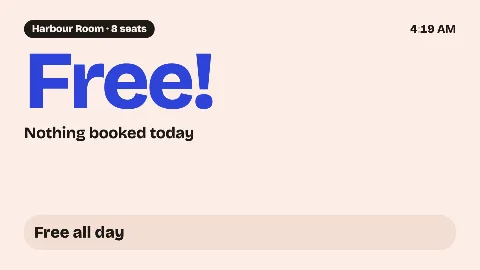
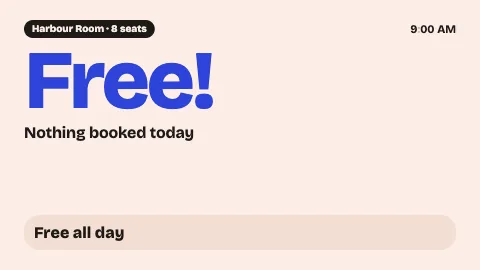
Template thumbnails: name check in e2e, drop dead guard, README, fixed-clock redraws (#287) (#311)
* CMS e2e: check every base template's thumbnail by name (#287)

Reads templates/ and, for each, finds its tile in the New spot dialog by the
template's name and checks its image is its own thumbnail, loaded.

* New spot dialog: drop the submit guard that cannot trigger (#287)

The Create spot button is disabled until the spot is ready, and Enter on a
template submits only when ready, so the form is never submitted otherwise.

* CMS README: list the template thumbnails and their versions file (#287)

* Template thumbnails: draw at a fixed clock, so two runs give the same files (#287)

spot-shots takes --clock: every frame's Date stands still at that instant
(sandboxed template frames kept in the page's process so the script reaches
them), and each shot holds every animation at the shot's time and drops
will-change, so layers are drawn again at the held frame rather than kept from
mid-animation. template-thumbnails draws at Monday 21 December 2026, 9:00 UTC,
with the agenda's events from that time.

* Template thumbnails: draw them again at the fixed clock (#287)

---------

diff --git a/scripts/spot-shots.ts b/scripts/spot-shots.ts
@@ -3,13 +3,15 @@
  * Screenshot every spot of a built project through the real player, for visual review.
  *
  *   tsx scripts/spot-shots.ts --content <sf build output> --out <dir> [--chrome <path>] [--sizes 1920x1080,1080x1920] [--spots a,b]
- *     [--scale 0.25 --format webp]
+ *     [--scale 0.25 --format webp] [--clock 2026-12-21T09:00:00Z]
  *
  * Serves `dist/player` (run `pnpm build:player` first) with the content under it, launches
  * Chromium headless, plays each spot on its own at each size, and saves two frames per spot:
  * after the intro (`-a`) and near the end (`-b`). Writes `index.json` with each spot's resolved
  * data (live snapshots applied) and any player error, so a reviewer can check what is shown
- * against what was meant to be shown.
+ * against what was meant to be shown. With `--clock`, the time stands still at that instant and each
+ * shot pins every animation at the shot's time, so a clock, a countdown or an animation draws the
+ * same frame on every run.
  *
  * Chromium, not the Pi: this checks how spots look, not how fast they run.
  */
@@ -30,6 +32,7 @@ const { values: args } = parseArgs({
     // A frame drawn at full size and saved smaller, as scripts/template-thumbnails.ts saves them.
     scale: { type: 'string', default: '1' },
     format: { type: 'string', default: 'png' },
+    clock: { type: 'string' },
   },
 });
 if (!args.content || !args.out || !args.chrome) {
@@ -41,6 +44,8 @@ const playerDir = join(root, 'dist/player');
 const contentDir = resolve(args.content);
 const outDir = resolve(args.out);
 mkdirSync(outDir, { recursive: true });
+const clockAt = args.clock === undefined ? undefined : Date.parse(args.clock);
+if (Number.isNaN(clockAt)) throw new Error(`--clock ${args.clock} is not a date`);
 if (!existsSync(join(playerDir, 'index.html'))) throw new Error('dist/player is missing: run pnpm build:player');
 
 // ---------------------------------------------------------------- server
@@ -72,6 +77,8 @@ const chrome = spawn(
     '--remote-debugging-port=0',
     '--autoplay-policy=no-user-gesture-required',
     '--force-device-scale-factor=1',
+    // A sandboxed template frame gets a process of its own, out of reach of `--clock`'s script and pins.
+    ...(clockAt === undefined ? [] : ['--disable-features=IsolateSandboxedIframes']),
     'about:blank',
   ],
   { stdio: ['ignore', 'ignore', 'pipe'] },
@@ -106,6 +113,31 @@ const call = (method: string, params: Record<string, unknown> = {}) =>
 const evaluate = async <T>(expression: string): Promise<T> =>
   ((await call('Runtime.evaluate', { expression, returnByValue: true, awaitPromise: true })).result as { value: T }).value;
 const sleep = (ms: number) => new Promise((r) => setTimeout(r, ms));
+// With `--clock`, every frame's `Date` stands still at that instant, from before the page's own
+// scripts, the template frames' included.
+if (clockAt !== undefined) {
+  await call('Page.enable');
+  await call('Page.addScriptToEvaluateOnNewDocument', {
+    source: `(() => { const R = Date, at = ${clockAt};
+      globalThis.Date = class extends R { constructor(...a) { a.length ? super(...a) : super(at); } static now() { return at; } }; })();`,
+  });
+}
+/** Hold every animation in every frame at `at` ms into it, from a world of the script's own in each frame. */
+const pinAnimations = async (at: number) => {
+  type Tree = { frame: { id: string }; childFrames?: Tree[] };
+  const frames = (t: Tree): string[] => [t.frame.id, ...(t.childFrames ?? []).flatMap(frames)];
+  const { frameTree } = (await call('Page.getFrameTree')) as { frameTree: Tree };
+  for (const frameId of frames(frameTree)) {
+    const { executionContextId } = (await call('Page.createIsolatedWorld', { frameId })) as { executionContextId: number };
+    await call('Runtime.evaluate', {
+      contextId: executionContextId,
+      expression: `for (const a of document.getAnimations()) { a.pause(); a.currentTime = ${at}; }
+        document.head?.append(Object.assign(document.createElement('style'), { textContent: '*, ::before, ::after { will-change: auto !important; }' }));`,
+    });
+  }
+  // Two frames, so the compositor draws the held animations before the shot.
+  await evaluate('new Promise((r) => requestAnimationFrame(() => requestAnimationFrame(r)))');
+};
 
 // ---------------------------------------------------------------- shots
 const manifest = JSON.parse(readFileSync(join(contentDir, 'manifest.json'), 'utf8')) as { spots: Record<string, { name: string; durationMs: number }> };
@@ -122,17 +154,20 @@ for (const size of args.sizes!.split(',')) {
       await sleep(100);
       started = (await evaluate<number>('window.__sf ? __sf.played : 0').catch(() => 0)) >= 1;
     }
-    const shot = async (suffix: string) => {
+    /** A frame `at` ms into the spot. With `--clock`, every animation is held there from then on, so each run draws the same frame. */
+    const shot = async (suffix: string, at: number) => {
+      if (clockAt !== undefined) await pinAnimations(at);
       const clip = { x: 0, y: 0, width, height, scale: Number(args.scale) };
       const { data } = (await call('Page.captureScreenshot', { format: args.format, quality: 82, clip })) as { data: string };
       const file = `${id}-${width}x${height}-${suffix}.${args.format}`;
       writeFileSync(join(outDir, file), Buffer.from(data, 'base64'));
       return file;
     };
-    await sleep(Math.min(2500, spot.durationMs * 0.3));
-    const a = await shot('a');
-    await sleep(Math.max(0, spot.durationMs * 0.85 - Math.min(2500, spot.durationMs * 0.3)));
-    const b = await shot('b');
+    const atA = Math.min(2500, spot.durationMs * 0.3);
+    await sleep(atA);
+    const a = await shot('a', atA);
+    await sleep(spot.durationMs * 0.85 - atA);
+    const b = await shot('b', spot.durationMs * 0.85);
     const info = await evaluate<{ error: string; skipped: number; data: Record<string, string> }>(
       '({ error: __sf.lastError, skipped: __sf.skipped, data: __sf.data })',
     );

diff --git a/apps/cms/e2e/spots.spec.ts b/apps/cms/e2e/spots.spec.ts
@@ -1,9 +1,13 @@
+import { readdirSync, readFileSync } from 'node:fs';
+import { join } from 'node:path';
+import { fileURLToPath } from 'node:url';
 import { expect, test, type Page, type Request } from '@playwright/test';
 import { png } from '@signforge/media/testing';
 import { axe, createOrg, hydrated, shots, signInAs, stageShows, tool } from './helpers';
 
 /** This spec's own client address, so its sign-in has its own rate limit and leaves the other specs theirs. */
 const ADDRESS = '192.0.2.130';
+const TEMPLATES_DIR = fileURLToPath(new URL('../../../templates/', import.meta.url));
 
 test.describe.configure({ mode: 'serial' });
 
@@ -24,17 +28,20 @@ test('choose a template by its thumbnail, by keyboard alone, in two columns on a
   const dialog = page.getByRole('dialog', { name: 'New spot' });
   const radios = dialog.getByRole('group', { name: 'Template' }).getByRole('radio');
 
-  // Every base template shows the thumbnail the player drew, from the CMS's own assets.
+  // Every base template in templates/ shows the thumbnail the player drew, from the CMS's own assets.
   await opener.click();
   await expect(radios.first()).toBeChecked();
-  const images = await dialog.locator('img').evaluateAll((imgs) =>
-    imgs.map((i) => ({
-      src: new URL((i as HTMLImageElement).src).pathname,
-      ok: (i as HTMLImageElement).complete && (i as HTMLImageElement).naturalWidth > 0,
-    })),
-  );
-  expect(images.length).toBeGreaterThanOrEqual(7);
-  for (const i of images) expect(i, i.src).toEqual({ src: expect.stringMatching(/^\/template-thumbnails\/[a-z-]+\.webp$/), ok: true });
+  const base = readdirSync(TEMPLATES_DIR, { withFileTypes: true })
+    .filter((d) => d.isDirectory())
+    .map((d): { id: string; name: string } => JSON.parse(readFileSync(join(TEMPLATES_DIR, d.name, 'template.json'), 'utf8')));
+  expect(base.length).toBeGreaterThan(0);
+  for (const t of base) {
+    const tile = dialog.locator('label').filter({ has: page.getByRole('radio', { name: t.name, exact: true }) });
+    const image = tile.locator('img');
+    await expect(image, t.name).toHaveAttribute('src', `/template-thumbnails/${t.id}.webp`);
+    await expect(image, t.name).toHaveJSProperty('complete', true);
+    expect(await image.evaluate((i) => i instanceof HTMLImageElement && i.naturalWidth > 0), t.name).toBe(true);
+  }
   await axe(page);
   await shots(page, '29-new-spot-thumbnails');
   // Escape closes it, and focus goes back to what opened it.

diff --git a/scripts/template-thumbnails.ts b/scripts/template-thumbnails.ts
@@ -9,6 +9,8 @@
  *
  * Image fields get one placeholder photo (an SVG drawn here), and fields with no default a wireframe's
  * stand-in (`stand`), so a thumbnail shows the template's layout rather than anyone's content.
+ * The player draws them at a fixed time (`CLOCK`), so a clock, a countdown or an agenda draws the
+ * same on every run, and a run that changes no template changes no file.
  */
 import { spawnSync } from 'node:child_process';
 import { copyFileSync, mkdirSync, mkdtempSync, readdirSync, readFileSync, writeFileSync } from 'node:fs';
@@ -48,8 +50,10 @@ const stand = (f: Field): unknown =>
         : f.type === 'text'
           ? f.label
           : undefined;
+/** When the player draws every thumbnail: a weekday morning, three days before the stand-in date. */
+const CLOCK = '2026-12-21T09:00:00Z';
 /** Data a label cannot stand in for: an agenda shows only events still to come today or soon. */
-const hence = (hours: number) => new Date(Date.now() + hours * 3_600_000).toISOString();
+const hence = (hours: number) => new Date(Date.parse(CLOCK) + hours * 3_600_000).toISOString();
 const OVERRIDES: Record<string, Record<string, unknown>> = {
   agenda: { events: ['Team stand-up', 'Design review', 'All hands'].map((title, i) => ({ title, start: hence(i + 1), end: hence(i + 1.75) })) },
 };
@@ -93,6 +97,8 @@ run('scripts/spot-shots.ts', [
   '0.25',
   '--format',
   'webp',
+  '--clock',
+  CLOCK,
 ]);
 
 const outDir = join(root, 'apps/cms/public/template-thumbnails');

diff --git a/apps/cms/src/components/spots/new-spot-dialog.tsx b/apps/cms/src/components/spots/new-spot-dialog.tsx
@@ -39,7 +39,6 @@ export function NewSpotDialog({ orgId, templates }: { orgId: string; templates: 
     d.name.trim() !== '' && (d.kind === 'template' ? chosen !== undefined : d.kind === 'url' ? safeUrl(d.url.trim()) : image !== undefined) && !d.pending;
   const submit = (e: SubmitEvent<HTMLFormElement>) => {
     e.preventDefault();
-    if (!ready) return;
     if (d.kind === 'template' && chosen && d.templateVersionId !== chosen.version.id) edit({ templateVersionId: chosen.version.id });
     const m = chosen?.version.manifest;
     void create(orgId, d.kind === 'template' && m ? { durationMs: m.duration.defaultMs, data: startData(m.fields) } : undefined);

diff --git a/apps/cms/README.md b/apps/cms/README.md
@@ -96,6 +96,8 @@ src/lib/fleet-status.ts   how the Screens page's poll joins the list it loaded, 
 src/lib/groups.ts         the groups that need attention, and what targets a group (schedule entries as `delete_group` counts them, brand kits)
 src/server/screens.functions.ts  the Screens loaders: tools called as the member, through one helper
 public/sign-in/           spots the player rendered (scripts/spot-shots.ts), for the sign-in wall
+public/template-thumbnails/  the New spot dialog's base template thumbnails, drawn by the player (scripts/template-thumbnails.ts)
+src/lib/template-thumbnails.json  the template versions those thumbnails were drawn from
 src/routes/api/$.ts       `/api/*` handed to the API Worker
 src/routes/v1/device/$.ts `/v1/device/*` handed to the API Worker, for the test screen
 src/server/               server-only: the API binding, the shell's server functions
